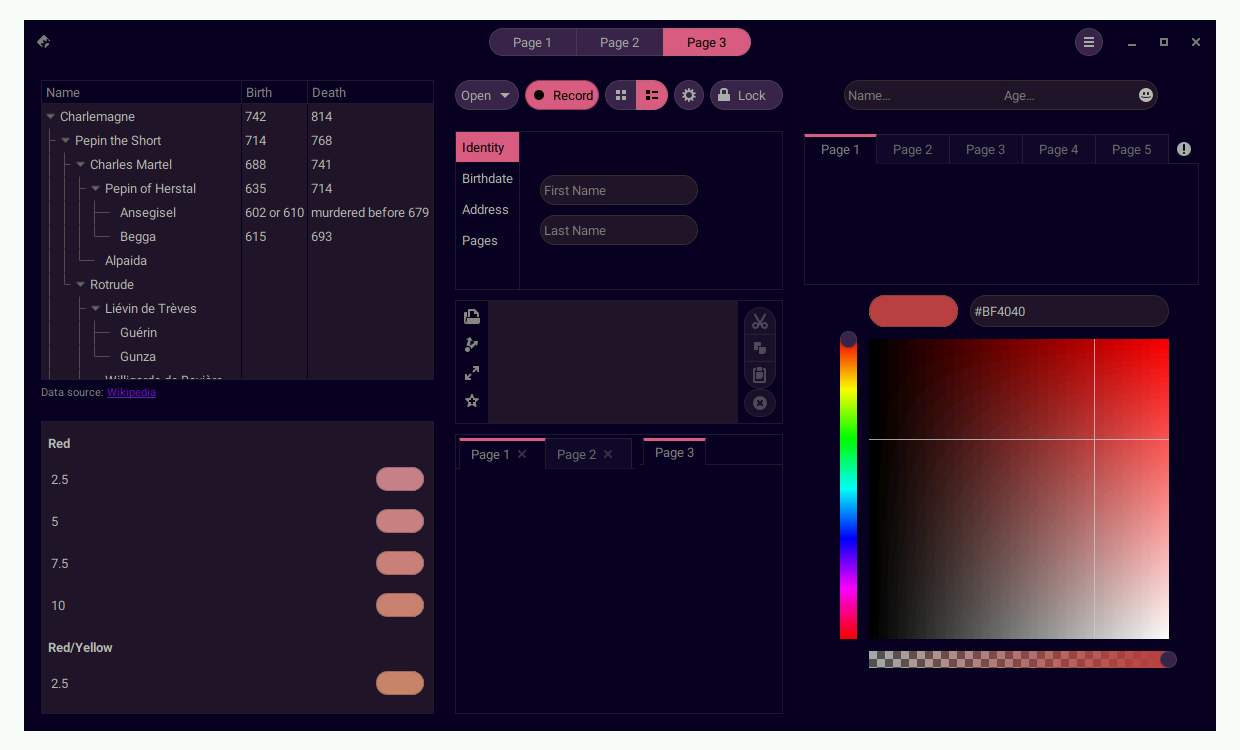
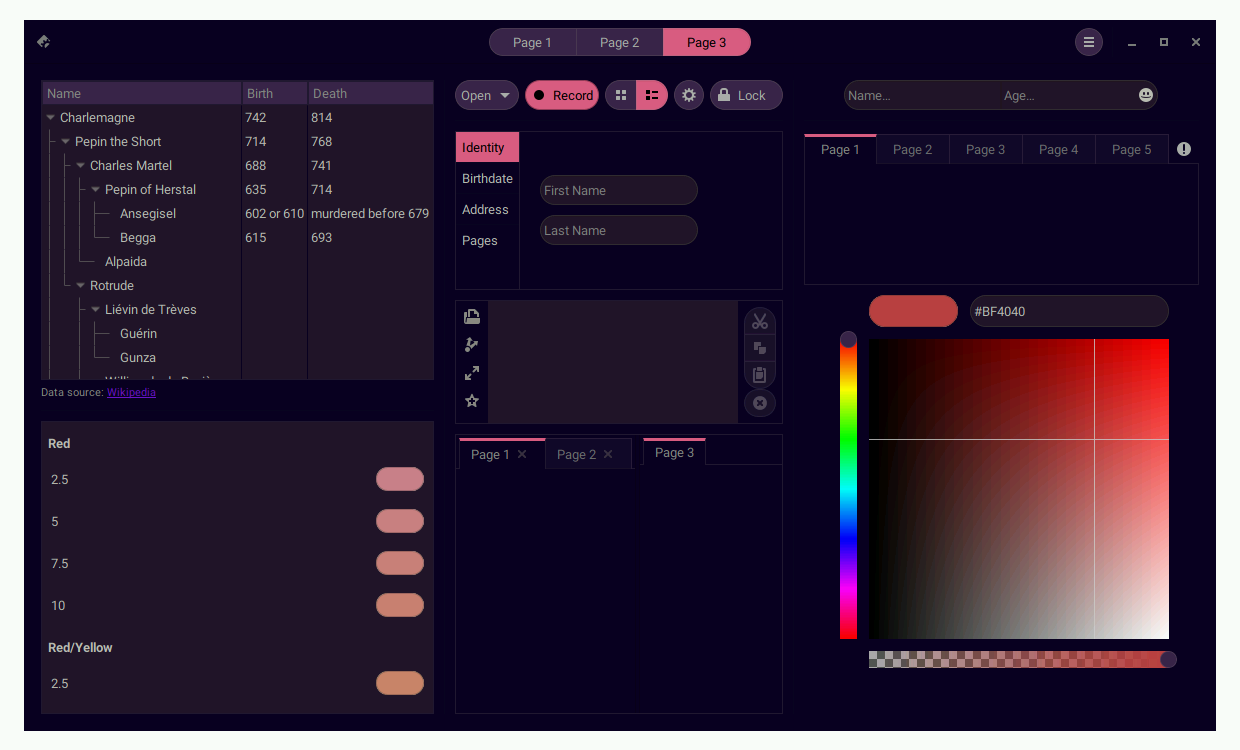
Use button style for column headers

Changed region(s): [[0.0306, 0.092, 0.3677, 0.4907], [0.1839, 0.2147, 0.3371, 0.3373]]

diff --git a/src/gtk-3.20/scss/widgets/_view.scss b/src/gtk-3.20/scss/widgets/_view.scss
@@ -68,16 +68,16 @@
     }
 
     %column_header_button {
+        @extend %button;
         padding: ($spacing - 2px) ($spacing + 1px);
         border-radius: 0;
-        background-image: none;
         text-shadow: none;
-        border-style: none solid solid none;
         border-color: $borders_color;
 
         &:disabled {
-            border-color: $bg_color;
+            border-color: $borders_color;
             background-image: none;
+            color: mix($fg_color, $bg_color, .5);
         }
 
         &:backdrop {
@@ -252,7 +252,6 @@
                 @extend %column_header_button;
 
                 color: $_column_header_color;
-                background-color: $bg_color;
                 font-weight: normal;
                 text-shadow: none;
                 box-shadow: none;
@@ -260,7 +259,6 @@
                 &:hover {
                     @extend %column_header_button;
 
-                    color: mix($_column_header_color, $selected_fg_color, .5);
                     box-shadow: none;
                     transition: none; //I shouldn't need this
                 }
@@ -268,7 +266,6 @@
                 &:active {
                     @extend %column_header_button;
 
-                    color: $fg_color;
                     transition: none; //I shouldn't need this
                 }
             }
